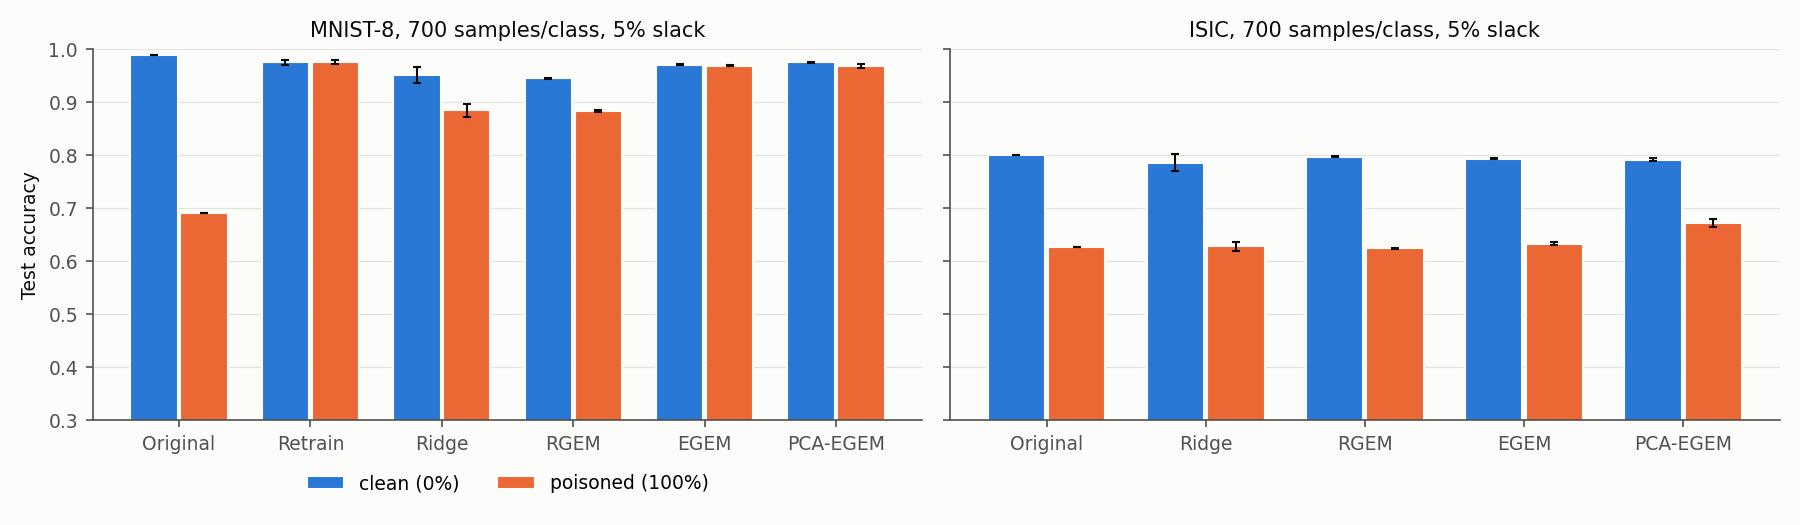
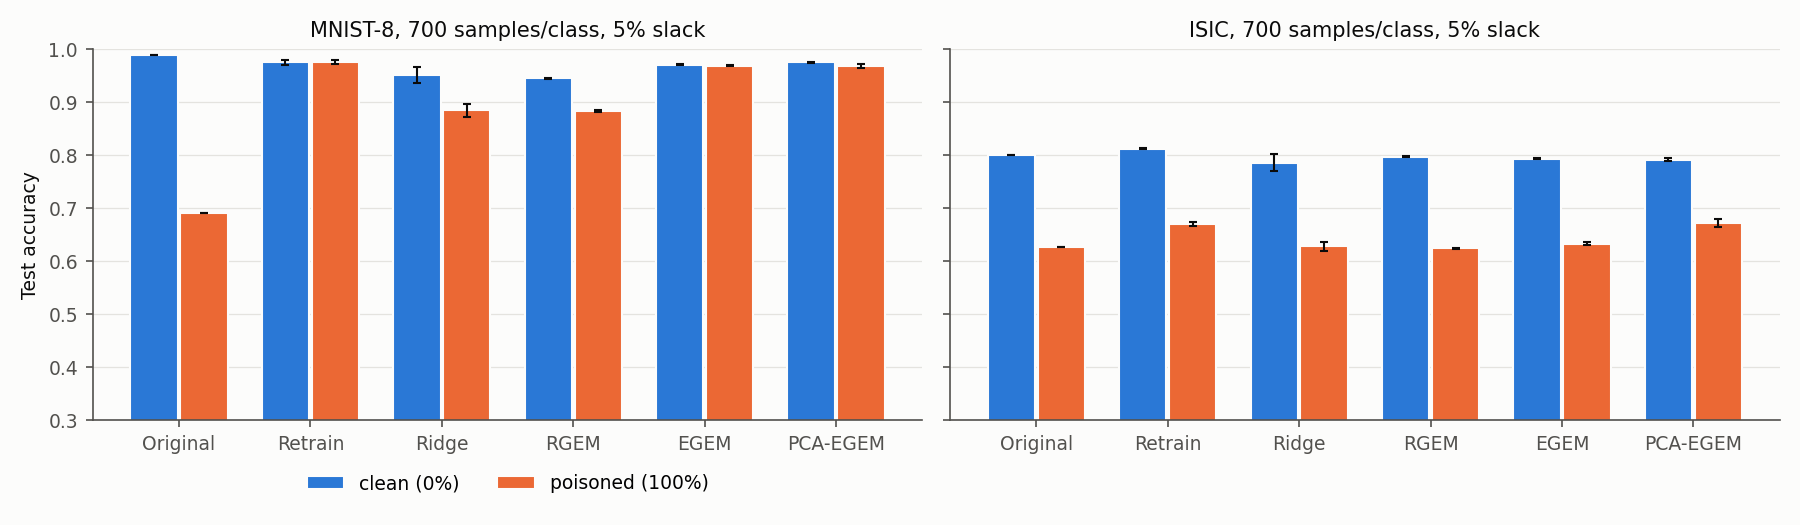
Add ISIC Retrain results
Retrain (lr 1e-7, 100 epochs selected) reaches 0.812 clean / 0.671
poisoned, matching PCA-EGEM on poisoned data. The paper reports Retrain at
about the original's poisoned accuracy.

Changed region(s): [[0.56, 0.2743, 0.9644, 0.8838]]

diff --git a/repro/REPRO.md b/repro/REPRO.md
@@ -80,13 +80,16 @@ method and poisoning level, 8–28 min each.
 | Method | clean | poisoned | paper clean / poisoned (read from Fig. 3) |
 |---|---|---|---|
 | Original | 0.800 ± 0.000 | 0.628 ± 0.000 | ≈ 0.80 / 0.645 |
+| Retrain | 0.812 ± 0.001 | 0.671 ± 0.003 | ≈ 0.82 / 0.65 |
 | Ridge | 0.786 ± 0.016 | 0.628 ± 0.008 | ≈ 0.80 / 0.69 |
 | RGEM | 0.797 ± 0.001 | 0.625 ± 0.001 | ≈ 0.81 / 0.65 |
 | EGEM | 0.794 ± 0.001 | 0.633 ± 0.003 | ≈ 0.77 / 0.735 |
 | PCA-EGEM | 0.792 ± 0.002 | **0.672 ± 0.007** | ≈ 0.80 / 0.765 |
 
-As in the paper, the original model relies on the colored patches (−17 points), and PCA-EGEM is the only
-method that clearly improves poisoned accuracy without losing clean accuracy. The size of the effect is
+As in the paper, the original model relies on the colored patches (−17 points). Among the pruning and
+regression methods, only PCA-EGEM clearly improves poisoned accuracy. Unlike in the paper, Retrain (lr 1e-7,
+selecting 100 epochs) is as robust as PCA-EGEM here (0.671 vs 0.672 poisoned) and gains clean accuracy.
+Its improvement grows steadily with the number of epochs. The size of the effect is
 not reproduced: +4.4 points instead of ≈ +12, and **EGEM does not help at all** (paper ≈ +9).
 - EGEM peaks at 0.639 poisoned for any α (α = 0.4) and collapses below α = 0.2.
 - PCA-EGEM is almost flat in α: it already reaches 0.682 at α = 0.99, so most of its gain comes from the
@@ -109,7 +112,6 @@ Hypotheses tested so far (exploratory, not in the paper's protocol):
 - So with this retrained model, the ISIC CH feature is not separable by per-channel pruning; only the PCA
   basis helps.
 
-Retrain is running at the paper's lr of 1e-7; a smoke test showed it does not change the model.
 
 ### Slack (paper Fig. 4 / Supp. G) — `figures/fig4_slack.png`
 
@@ -208,6 +210,6 @@ or of channel-summed conv maps (`scratch` experiment, 0.09–0.10 at Linear_2 fo
 1. ImageNet tasks (carton/crate/envelope/packet, mtb/bbt): they need the 6 classes plus validation (see
    `DATA.md` for ways to get only those) and a patch to `splits.py`, which addresses images by their
    position in the full list. Pretrained torchvision weights are fine. GPU shard jobs as for ISIC.
-2. ISIC: investigate why EGEM does not help (layer choice/scaling rule, refinement data overlapping the
-   training data); Retrain results are pending.
+2. ISIC: investigate why EGEM does not help. Spatial summing and the scaling rule are ruled out; the overlap
+   of refinement and training data remains a candidate.
 3. Work through the open items in `TODO_cleanup.md`.
